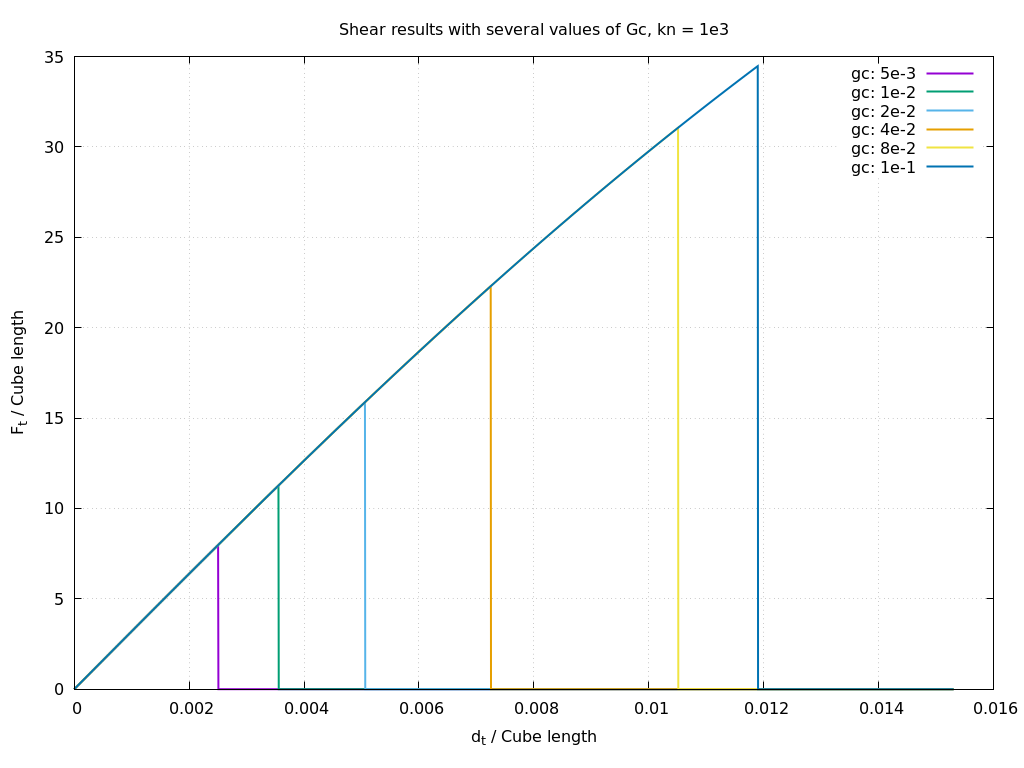
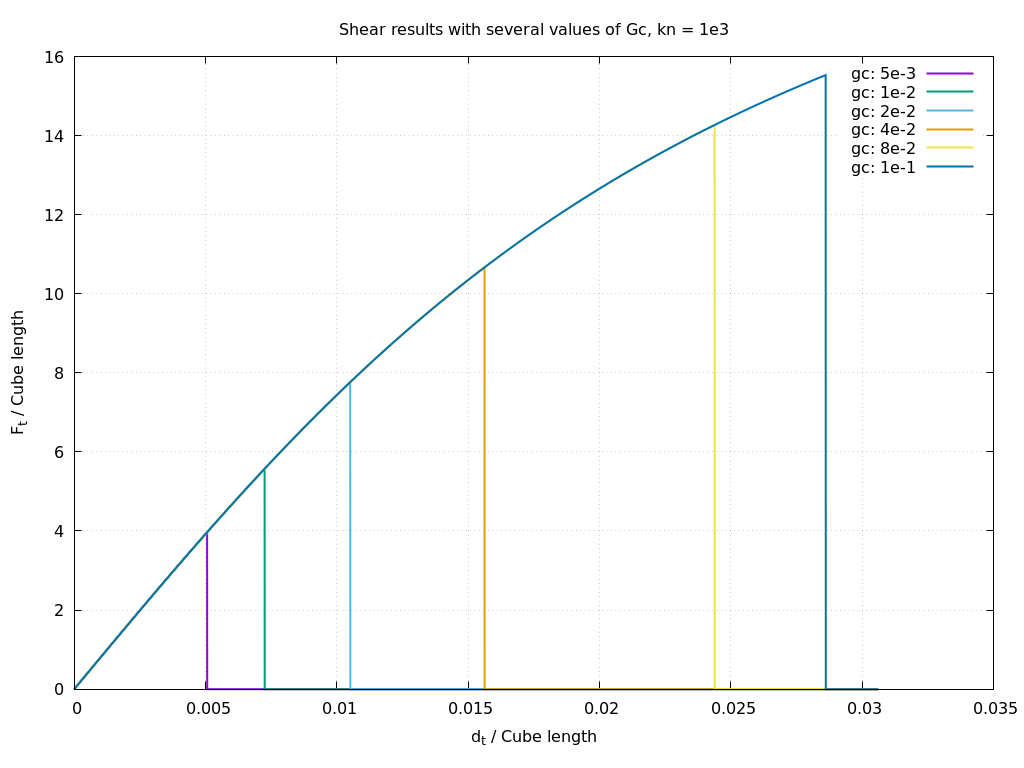
use weight in innerbond forces (#276)
* use weight in innerbond forces

* bad copy in example/polyhedra/fragmentation/verification_test/traction/traction.msp

---------

diff --git a/src/interaction/include/exaDEM/classifier/classifier_container.hpp b/src/interaction/include/exaDEM/classifier/classifier_container.hpp
@@ -50,6 +50,7 @@ struct ClassifierContainer {
   VectorT<Vec3d> tds;        /**< List of cumulative tangential displacement.  */
   VectorT<double> et;        /**< List of the et.  */
   VectorT<double> dn0;       /**< List of the dn0.  */
+  VectorT<double> weight;       /**< List of the weight.  */
   VectorT<double> criterion; /**< List of the criterion.  */
   VectorT<uint8_t> unbroken; /**< List of the sticked interactions are unbroken.  */
 
@@ -84,15 +85,12 @@ struct ClassifierContainer {
 
   template <typename Func>
   void apply_on_fields(Func& func) {
-    // ldbg << "Func applied on [id_i, id_j, cell_i, cell_j, p_i, p_j, sub_i, sub_j]" << std::endl;
     apply_on_fields(func, id_i, id_j, cell_i, cell_j, p_i, p_j, sub_i, sub_j, swap, ghost);
     if constexpr (IT == InteractionType::ParticleParticle || IT == InteractionType::ParticleDriver) {
-      // ldbg << "Func applied on [ft_x, ft_y, ft_z, mom_x, mom_y, mom_z]" << std::endl;
       apply_on_fields(func, ft_x, ft_y, ft_z, mom_x, mom_y, mom_z);
     }
     if constexpr (IT == InteractionType::InnerBond) {
-      // ldbg << "Func applied on [ft_x, ft_y, ft_z, en, et, dn0, s(surface)]" << std::endl;
-      apply_on_fields(func, ft_x, ft_y, ft_z, en, tds, et, dn0, criterion, unbroken);
+      apply_on_fields(func, ft_x, ft_y, ft_z, en, tds, et, dn0, weight, criterion, unbroken);
     }
   }
 
@@ -166,6 +164,7 @@ struct ClassifierContainer {
       tds[idx] = I.tds;
       et[idx] = I.et;
       dn0[idx] = I.dn0;
+      weight[idx] = I.weight;
       criterion[idx] = I.criterion;
       unbroken[idx] = I.unbroken;
     }
@@ -246,6 +245,7 @@ struct ClassifierContainer {
                                        vector_data(tds)[id],
                                        vector_data(et)[id],
                                        vector_data(dn0)[id],
+                                       vector_data(weight)[id],
                                        vector_data(criterion)[id],
                                        vector_data(unbroken)[id]};
       return res;
@@ -279,6 +279,7 @@ struct ClassifierContainer {
       vector_data(tds)[id] = I.tds;
       vector_data(et)[id] = I.et;
       vector_data(dn0)[id] = I.dn0;
+      vector_data(weight)[id] = I.weight;
       vector_data(criterion)[id] = I.criterion;
       vector_data(unbroken)[id] = I.unbroken;
     }

diff --git a/src/forcefield/include/exaDEM/forcefield/inner_bond_force.hpp b/src/forcefield/include/exaDEM/forcefield/inner_bond_force.hpp
@@ -26,7 +26,11 @@ namespace exaDEM {
 ONIKA_HOST_DEVICE_FUNC
 inline void force_law_core(const double dn,
                            const Vec3d& n,  // -normal
-                           const double dn0, const double dt, const InnerBondParams& ibp, const double meff,
+                           const double dn0,
+                           const double weight,
+                           const double dt,
+                           const InnerBondParams& ibp,
+                           const double meff,
                            double& En,
                            Vec3d& tds,  // cummalative tangential displacement
                            double& Et,
@@ -44,30 +48,32 @@ inline void force_law_core(const double dn,
   const double damp = compute_damp(ibp.damp_rate, ibp.kn, meff);
 
   // === Relative velocity (j relative to i)
-  auto vel = compute_relative_velocity(contact_position, pos_i, vel_i, vrot_i, pos_j, vel_j, vrot_j);
+  auto vel = compute_relative_velocity(
+      contact_position, pos_i, vel_i, vrot_i, pos_j, vel_j, vrot_j);
 
   // compute relative velocity
   const double vn = exanb::dot(vel, n);
+
   // === Normal force (elatic contact + viscous damping)
-  double fne = -ibp.kn * (dn - dn0);
+  double fne = -ibp.kn * weight * (dn - dn0);
   double fnv = damp * vn;
   double fn = fne + fnv;
-  // double fn = normal_force(ibp.kn, damp, dn - dn0, vn);
   const Vec3d vfn = fn * n;
 
   // === Tangential force (friction)
   const Vec3d ft = compute_tangential_force(dt, vn, n, vel);
   tds += ft;
-  vft += ibp.kt * ft;
+  vft += weight * ibp.kt * ft;
 
   // === sum forces
   f_i = vfn + vft;
 
+  // === Compute energies
   if (fne > 0) {
     En = 0;
   } else {
-    En = 0.5 * ibp.kn * (dn - dn0) * (dn - dn0);
+    En = 0.5 * weight * ibp.kn * (dn - dn0) * (dn - dn0);
   }
-  Et = 0.5 * ibp.kt * dot(tds, tds);  // 0.5 * kt * norm2(vt * dt); with  vt = (vel - (vn * n));
+  Et = 0.5 * weight * ibp.kt * dot(tds, tds);  // 0.5 * kt * norm2(vt * dt); with  vt = (vel - (vn * n));
 }
 }  // namespace exaDEM

diff --git a/src/interaction/include/exaDEM/interaction/inner_bond_interaction.hpp b/src/interaction/include/exaDEM/interaction/inner_bond_interaction.hpp
@@ -29,11 +29,13 @@ namespace exaDEM {
  */
 struct InnerBondInteraction {
   InteractionPair pair;
+  // specialized members
   exanb::Vec3d friction = {0, 0, 0}; /**< Friction vector associated with the interaction. */
   double en;
   exanb::Vec3d tds;
   double et;
   double dn0;
+  double weight = 1.0;
   double criterion;  // interface fracture criterion
   uint8_t unbroken = true;
 
@@ -76,6 +78,7 @@ struct InnerBondInteraction {
     tds = exanb::Vec3d{0,0,0};
     et = 0;
     unbroken = true;
+    // weight and criterion are not reset
   }
 
   /**
@@ -104,7 +107,7 @@ struct InnerBondInteraction {
   void print() {
     pair.print();
     std::cout << "Friction: " << friction << ", en: " << en <<", tds: " << tds << ", et: " << et << ", dn0: " << dn0
-              << ", criterion: " << criterion << ")" << std::endl;
+              << ", weight: " << weight << ", criterion: " << criterion << ")" << std::endl;
   }
 
   /**
@@ -113,7 +116,7 @@ struct InnerBondInteraction {
   void print() const {
     pair.print();
     std::cout << "Friction: " << friction << ", en: " << en <<", tds: " << tds << ", et: " << et << ", dn0: " << dn0
-              << ", criterion: " << criterion << ")" << std::endl;
+              << ", weight: " << weight << ", criterion: " << criterion << ")" << std::endl;
   }
 
   ONIKA_HOST_DEVICE_FUNC void update(InnerBondInteraction& I) {
@@ -122,6 +125,7 @@ struct InnerBondInteraction {
     this->tds = I.tds;
     this->et = I.et;
     this->dn0 = I.dn0;
+    this->weight = I.weight;
     this->criterion = I.criterion;
     this->unbroken = I.unbroken;
   }

diff --git a/src/interaction/include/exaDEM/classifier/interaction_wrapper.hpp b/src/interaction/include/exaDEM/classifier/interaction_wrapper.hpp
@@ -80,6 +80,7 @@ struct InteractionWrapper {
   Vec3d* tds;
   double* et;
   double* dn0;
+  double* weight;
   double* criterion;
   uint8_t* unbroken;
 
@@ -120,6 +121,7 @@ struct InteractionWrapper {
       tds = vector_data(data.tds);
       et = vector_data(data.et);
       dn0 = vector_data(data.dn0);
+      weight = vector_data(data.weight);
       criterion = vector_data(data.criterion);
       unbroken = vector_data(data.unbroken);
     }
@@ -152,7 +154,7 @@ struct InteractionWrapper {
       return Interaction{ip, {ft_x[idx], ft_y[idx], ft_z[idx]}, {mom_x[idx], mom_y[idx], mom_z[idx]}};
     } else if constexpr (IT == InnerBond) {
       return InnerBondInteraction{
-          ip, {ft_x[idx], ft_y[idx], ft_z[idx]}, en[idx], tds[idx], et[idx], dn0[idx], criterion[idx], unbroken[idx]};
+          ip, {ft_x[idx], ft_y[idx], ft_z[idx]}, en[idx], tds[idx], et[idx], dn0[idx], weight[idx], criterion[idx], unbroken[idx]};
     } else {
       // static_assert(always_false<T>::value, "Unsupported interaction type");
     }
@@ -198,6 +200,7 @@ struct InteractionWrapper {
     tds[idx] = item.tds;
     et[idx] = item.et;
     dn0[idx] = item.dn0;
+    weight[idx] = item.weight;
     criterion[idx] = item.criterion;
     unbroken[idx] = item.unbroken;
   }

diff --git a/src/polyhedron/stick_polyhedra.cpp b/src/polyhedron/stick_polyhedra.cpp
@@ -314,6 +314,12 @@ class StickPolyhedraOperator : public OperatorNode {
                 }
               }
 
+              // compute inner bond weight such as kn / kt are
+              // imposed on a interface instead of a for each interaction
+              for (auto& it: local) {
+                it.as<InnerBondInteraction>().weight = 1. / static_cast<double>(local.size());
+              }
+
               bool check = check_stiked_face(local, p_i, vertices_i);
               if (check) manager.add(local);
               local.clear();

diff --git a/src/polyhedron/include/exaDEM/polyhedron/inner_bond.hpp b/src/polyhedron/include/exaDEM/polyhedron/inner_bond.hpp
@@ -171,7 +171,9 @@ struct inner_bond_law {
 
     const double meff = compute_effective_mass(mi, mj);
 
-    force_law_core(dn, n, item.dn0, dt, ibp, meff, item.en, item.tds, item.et, item.friction,
+    force_law_core(dn, n, item.dn0, item.weight,
+                   dt, ibp, meff,
+                   item.en, item.tds, item.et, item.friction,
                    contact_position, ri, vi, fi, vroti,  // particle 1
                    rj, vj, vrotj);  // particle nbh
 
